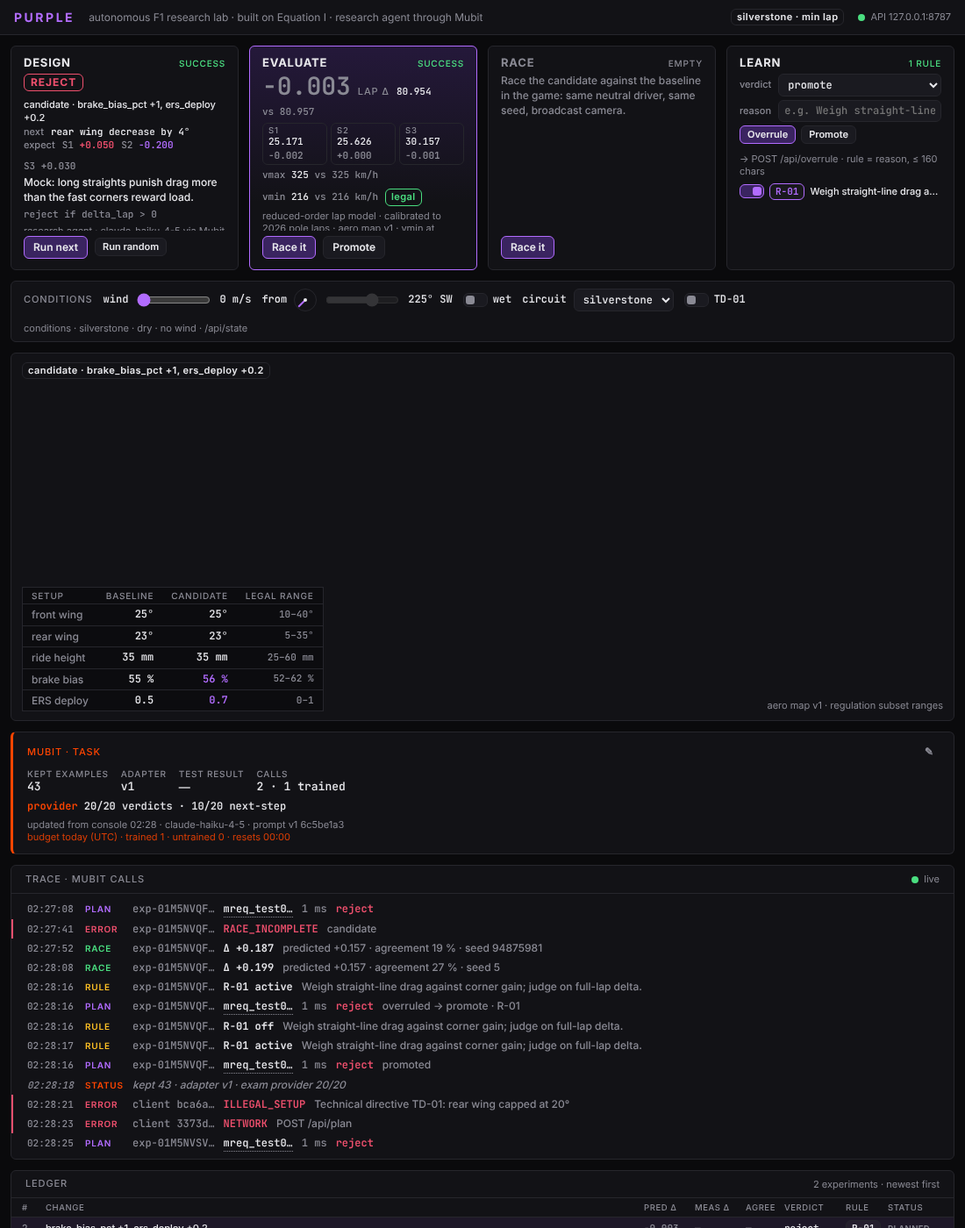
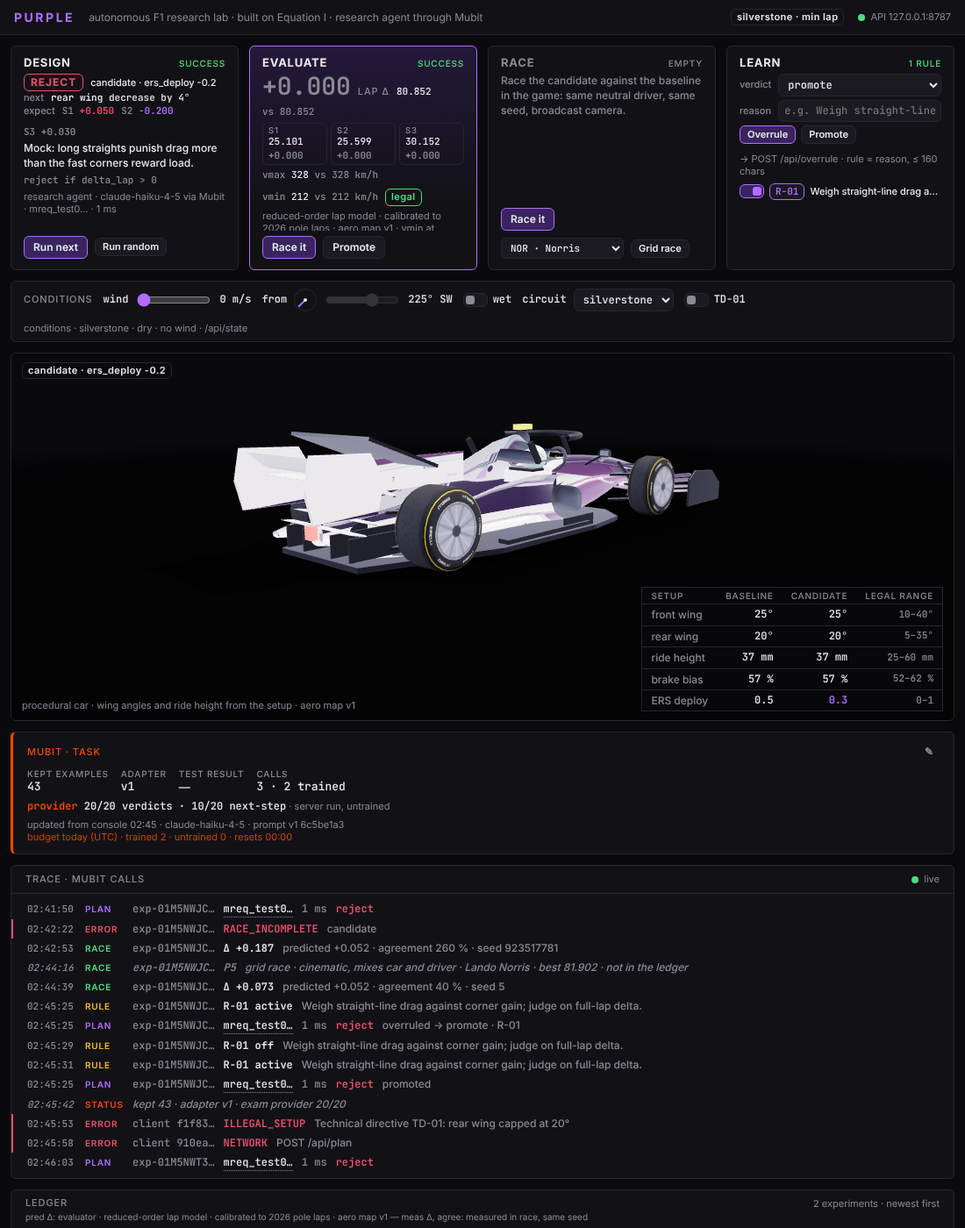
P3.T2/P3.T3 UI: polish round 2 — GAME review, integrator audit, grid-race UI; car3d scripts reverted (lazy-loaded)
lab/lab.js: keep the game frame after a result until Back to 3D view; still-air note for windy experiments (G-HON-01);
message handler checks ev.source and the racing experiment id (STALE_RESULT); purple:grid block + Grid race button with a
driver select from EI.SEASON (P3.T3 UI side, cinematic, not in the ledger); mubit_code on trace/error lines; ledger source
row; widget exam line from exam.ran_at. lab/index.html: favicon data URL, allow=autoplay, teams/liveries/carglb tags removed
(lab/car3d.js lazy-loads them). lab/lab.css: centred back button over the game, ledger source row.

Claude-Session: https://claude.ai/code/session_01LerQvr7T9YvRQxL76EErVH

diff --git a/lab/lab.js b/lab/lab.js
@@ -45,7 +45,7 @@
   // ---- state
   const S = {
     current: null, ledger: [], rules: [], status: null, state: null,
-    busy: {}, err: {}, racing: null, lastRacePayload: null, active: null, apiOk: null, ledgerTotal: 0,
+    busy: {}, err: {}, racing: null, showGame: false, grid: null, lastRacePayload: null, active: null, apiOk: null, ledgerTotal: 0,
     rendered: { evalId: null }, traceSeen: new Set(), lastStatusKey: null, car3dMounted: false, car3dSetupKey: null, illegalCandidate: null,
   };
 
@@ -88,7 +88,10 @@
     const p = $(".progress", c);
     if (o.state === "loading") { if (!p) c.appendChild(el("div", { class: "progress", "aria-hidden": "true" })); } else if (p) p.remove();
   }
-  const errBody = (e, extra) => [el("div", { class: "err", text: e.code + " · " + e.endpoint }), el("p", { text: e.message }), extra];
+  const errBody = (e, extra) => [el("div", { class: "err", text: e.code + " · " + e.endpoint + (e.extra && e.extra.mubit_code ? " · " + e.extra.mubit_code : "") }), el("p", { text: e.message }), extra];
+  const windy = x => !!(x && x.conditions && +x.conditions.wind_ms > 0);
+  // G-HON-01: the game has no wind model; a windy experiment races in still air while the evaluator's numbers include the wind
+  const windNote = x => (windy(x) ? el("div", { class: "row" }, el("span", { class: "badge amber", text: "still air" }), el("span", { class: "sans muted", text: "raced in still air (the game has no wind); evaluator numbers include the wind, " + x.conditions.wind_ms + " m/s from " + (x.conditions.wind_from_deg || 0) + "°" })) : null);
   const btn = (label, onclick, o) => el("button", Object.assign({ class: "btn" + (o && o.cls ? " " + o.cls : ""), type: "button", onclick, disabled: !!(o && o.disabled), title: o && o.title }, {}), label);
   const delta = (d, cls) => el("span", { class: "delta " + deltaClass(d) + (cls ? " " + cls : ""), text: fmtD(d) });
   const verdictPill = v => el("span", { class: "verdict " + v, text: v });
@@ -152,12 +155,21 @@
   function renderRace() {
     const x = S.current, e = S.err.race, m = x && x.measured;
     if (S.busy.raceResult) return card("race", { state: "loading", stateLabel: "posting result", body: [el("p", { text: "POST /api/race/result" })] });
-    if (e) return card("race", { state: "error", body: errBody(e), foot: [e.again ? btn("Race again", raceIt, { cls: "primary" }) : btn("Retry", e.retry, { cls: "primary" }), btn("Back to 3D view", cancelRace, { cls: "small" })] });
+    const back = S.showGame ? btn("Back to 3D view", cancelRace, { cls: "small" }) : null;
+    const canRace = !!(x && x.evaluation && isNum(x.evaluation.lap));
+    if (e) return card("race", { state: "error", body: errBody(e), foot: [e.again ? btn("Race again", raceIt, { cls: "primary" }) : btn("Retry", e.retry, { cls: "primary" }), back || btn("Dismiss", () => { delete S.err.race; renderAll(); }, { cls: "small" })] });
+    if (S.racing && S.racing.mode === "grid") return card("race", { state: "loading", stateLabel: "grid race", body: [
+      el("div", { class: "row" }, el("span", { class: "big num", id: "raceClock", text: fmtClock(Date.now() - S.racing.started) }), el("span", { class: "label", text: "elapsed" }), el("span", { class: "badge amber", text: "CINEMATIC · mixes car and driver" })),
+      el("p", { text: "The candidate car with " + (S.racing.driverName || S.racing.driver) + " on the 2026 grid · " + GRID_LAPS + " laps · seed " + S.racing.seed + ". Not a measurement; nothing is written to the ledger." }), windNote(x)], foot: [btn("Cancel", cancelRace, { cls: "small" })] });
     if (S.racing) return card("race", { state: "loading", stateLabel: "racing", body: [
-      el("div", { class: "row" }, el("span", { class: "big num", id: "raceClock", text: fmtClock(Date.now() - S.racing.started) }), el("span", { class: "label", text: "elapsed" }), el("span", { class: "muted sans", text: "a " + LAPS + "-lap race takes about 4½ minutes" })),
-      el("p", { text: "Waiting for result · baseline vs candidate · same neutral driver · " + LAPS + " laps · seed " + S.racing.seed + "." }),
+      el("div", { class: "row" }, el("span", { class: "big num", id: "raceClock", text: fmtClock(Date.now() - S.racing.started) }), el("span", { class: "label", text: "elapsed" }), el("span", { class: "muted sans", text: "a " + LAPS + "-lap race takes about 4½ minutes; no result after " + Math.round(RACE_TIMEOUT_MS / 60000) + " shows an error" })),
+      el("p", { text: "Waiting for result · baseline vs candidate · same neutral driver · " + LAPS + " laps · seed " + S.racing.seed + "." }), windNote(x),
       el("div", { class: "src", text: "the game posts purple:result when the chequered flag falls" })], foot: [btn("Cancel", cancelRace, { cls: "small" })] });
-    if (!m) return card("race", { state: "empty", body: [el("p", { text: "Race the candidate against the baseline in the game: same neutral driver, same seed, broadcast camera." })], foot: [btn("Race it", raceIt, { cls: "primary", disabled: !(x && x.evaluation && isNum(x.evaluation.lap)) })] });
+    const g = S.grid && x && S.grid.experiment_id === x.id ? S.grid : null;
+    const gridBlock = g ? el("div", { class: "grid-res" }, el("div", { class: "row" }, el("span", { class: "badge amber", text: "CINEMATIC · mixes car and driver" }),
+      el("span", {}, el("b", { text: g.position != null ? "P" + g.position : "DNF" }), el("span", { class: "muted", text: g.field ? " of " + g.field : "" })), el("span", { class: "num", text: g.best_lap != null ? fmtT(g.best_lap) : "—" }), el("span", { class: "muted sans", text: g.driver ? g.driver.name + " · " + (g.driver.team || "") : "" })),
+      el("div", { class: "src", text: (g.label || "cinematic — mixes car and driver") + " · " + (g.laps || GRID_LAPS) + " laps · seed " + g.seed + " · not in the ledger" })) : null;
+    if (!m) return card("race", { state: g ? "success" : "empty", stateLabel: g ? "grid raced" : "empty", body: [gridBlock, el("p", { text: "Race the candidate against the baseline in the game: same neutral driver, same seed, broadcast camera." }), windNote(x)], foot: [btn("Race it", raceIt, { cls: "primary", disabled: !canRace }), gridControls(x), back] });
     const body = [
       el("div", { class: "row" }, delta(m.measured_delta, "big"), el("span", { class: "label", text: "measured Δ" }), el("span", { class: "muted", text: "predicted " }), delta(m.predicted_delta),
         el("span", { class: "badge " + (isNum(m.agreement_pct) ? (m.agreement_pct <= 25 ? "green" : "amber") : ""), text: "agreement " + fmtPct(m.agreement_pct) })),
@@ -165,9 +177,29 @@
       kv([["baseline", "lap · vmax / vmin"]].map(([k, v]) => [k, el("span", { class: "muted sans", text: v })]).concat(["baseline", "candidate"].map(role => {
         const c = m[role] || {}; return [role, el("span", { title: role + ": best lap · top speed / minimum through the fast complex" }, el("span", { class: "num", text: fmtT(c.lap) }), el("span", { class: "muted", text: " · " + (isNum(c.vmax_kmh) ? Math.round(c.vmax_kmh) : "—") + " / " + (isNum(c.vmin_becketts_kmh) ? Math.round(c.vmin_becketts_kmh) : "—") + " km/h" }))];
       }))),
+      windNote(x),
       el("div", { class: "src", text: (m.label || "measured in race") + " · agreement = 100·|measured Δ − predicted Δ| / |predicted Δ|" }),
+      gridBlock,
     ];
-    card("race", { state: "success", body, foot: [btn("Race again", raceIt, { cls: "small" })] });
+    card("race", { state: "success", body, foot: [btn("Race again", raceIt, { cls: "small" }), gridControls(x), S.showGame && !S.racing ? null : back] });
+  }
+  // P3.T3 UI side (F-10): the candidate car with a real 2026 driver on the full grid; cinematic, never a measurement (G-HON-05)
+  const GRID_LAPS = 2;
+  function gridControls(x) {
+    if (!x || !x.evaluation || !isNum(x.evaluation.lap) || S.racing) return null;
+    const drivers = (EI.SEASON && Array.isArray(EI.SEASON.drivers) ? EI.SEASON.drivers : []).filter(d => !d.reserve);
+    const sel = drivers.length ? el("select", { "aria-label": "driver for the grid race", class: "small" }, drivers.map(d => el("option", { value: d.code, selected: d.code === (S.gridDriver || "VER"), title: d.name }, d.code + " · " + (d.last || d.name)))) : el("input", { type: "text", "aria-label": "driver code for the grid race", value: S.gridDriver || "VER", maxlength: "3", size: "4", class: "small" });
+    sel.addEventListener("change", ev => { S.gridDriver = ev.target.value; });
+    return el("span", { class: "row", title: "cinematic: the candidate car with a real 2026 driver profile on the 2026 grid, " + GRID_LAPS + " laps" }, sel, btn("Grid race", () => gridRace(sel.value), { cls: "small" }));
+  }
+  function gridRace(code) {
+    const x = S.current; if (!x || !x.evaluation || !isNum(x.evaluation.lap) || !EI.aero) return;
+    const c = x.conditions || {}, circuit = x.circuit || c.circuit || "silverstone"; code = String(code || "VER").toUpperCase(); S.gridDriver = code;
+    const d = EI.SEASON && EI.SEASON.drivers ? EI.SEASON.drivers.find(k => k.code === code) : null;
+    const q = new URLSearchParams({ lab: "1", mode: "grid", exp: x.id, driver: code, seed: String(x.seed), laps: String(GRID_LAPS), circuit, candidate: b64(x.candidate), mult_candidate: b64(EI.aero.toMultipliers(x.candidate, c)) });
+    S.racing = { id: x.id, seed: x.seed, started: Date.now(), mode: "grid", driver: code, driverName: d ? d.name : null }; S.showGame = true; delete S.err.race; S.active = "race"; clearBanner();
+    renderAll(); startRaceClock();
+    $("#game").src = "../index.html?" + q.toString();
   }
 
   // ---- LEARN: Promote / Overrule (native form) → pit-wall rule; rules list with toggles
@@ -194,12 +226,12 @@
 
   // ---- main area: 3D car (lab/car3d.js, CAR3D lane) or the game iframe while racing; setup table as the always-on numbers
   function renderMain() {
-    const x = S.current, racing = !!S.racing;
+    const x = S.current, racing = !!S.showGame;   // the game frame stays up after a result until "Back to 3D view"
     const game = $("#game"), car = $("#car3d"), empty = $("#mainEmpty");
     game.hidden = !racing; car.hidden = racing;
     if (!racing && game.getAttribute("src")) game.removeAttribute("src");
-    const corner = $("#mainCorner");
-    corner.replaceChildren(...(racing ? [] : [el("span", { class: "badge", text: x ? "candidate · " + (x.change || "no change") : "baseline" })]));
+    const corner = $("#mainCorner"); corner.classList.toggle("racing", racing);
+    corner.replaceChildren(...(racing ? (S.racing ? [] : [btn("Back to 3D view", cancelRace, { cls: "small" })]) : [el("span", { class: "badge", text: x ? "candidate · " + (x.change || "no change") : "baseline" })]));
     const setup = x ? x.candidate : (S.illegalCandidate || (S.state && S.state.baseline));
     if (EI.labCar3D && !racing) {
       try {
@@ -212,7 +244,7 @@
       }
       empty.hidden = S.car3dMounted && !S.car3dError;
     } else empty.hidden = racing;
-    $("#mainSrc").textContent = racing ? "Equation I · ?lab=1 broadcast mode" : S.car3dMounted ? "procedural car · wing angles and ride height from the setup · aero map v1" : "aero map v1 · regulation subset ranges";
+    $("#mainSrc").textContent = racing ? "" : S.car3dMounted ? "procedural car · wing angles and ride height from the setup · aero map v1" : "aero map v1 · regulation subset ranges";
     $("#setupBox").replaceChildren(racing ? el("span") : setupTable());   // while racing the game's HUD owns the frame
   }
   function setupTable() {
@@ -234,7 +266,7 @@
   // ---- MubitWidget: GET /api/status; edit form POSTs partial values (the console is the source, this is the copy)
   function renderWidget(editing) {
     const w = $("#widget"), s = S.status || {}, ex = s.exam || {}, total = ex.total || 20, b = s.budget;
-    const examLine = (who, v, p) => (isNum(v) || isNum(p) ? el("div", { class: "exam" }, el("b", { text: who }), " " + (isNum(v) ? v + "/" + total + " verdicts" : "—") + (isNum(p) ? " · " + p + "/" + total + " next-step" : "")) : null);
+    const examLine = (who, v, p, when) => (isNum(v) || isNum(p) ? el("div", { class: "exam" }, el("b", { text: who }), " " + (isNum(v) ? v + "/" + total + " verdicts" : "—") + (isNum(p) ? " · " + p + "/" + total + " next-step" : ""), when ? el("span", { class: "src", text: " · " + when }) : null) : null);
     const head = el("div", { class: "head" }, el("span", { class: "label", text: "Mubit · task" }), el("button", { class: "btn icon", type: "button", "aria-label": editing ? "cancel editing" : "edit status (values from the console)", title: "edit values copied from the console", onclick: () => renderWidget(!editing) }, editing ? "✕" : "✎"));
     if (editing) {
       const f = (name, label, value, type) => el("label", {}, label, el("input", { name, type: type || "text", value: value == null ? "" : value, step: type === "number" ? "1" : null }));
@@ -252,8 +284,8 @@
         el("div", { class: "fact" }, el("div", { class: "label", text: "adapter" }), el("div", { class: "v", text: s.adapter_version || "—" })),
         el("div", { class: "fact" }, el("div", { class: "label", text: "test result" }), el("div", { class: "v sans", text: s.test_result || "—" })),
         el("div", { class: "fact" }, el("div", { class: "label", text: "calls" }), el("div", { class: "v num", text: isNum(s.calls_total) ? s.calls_total + " · " + s.calls_trained + " trained" : "—" }))),
-      examLine("provider", ex.provider, ex.provider_param) || el("div", { class: "exam muted sans", text: "exam not run yet (20 held-out scenarios, truth from the evaluator)" }),
-      examLine("v1", ex.v1, ex.v1_param), examLine("v2", ex.v2, ex.v2_param),
+      examLine("provider", ex.provider, ex.provider_param, ex.ran_at ? "server run, untrained, " + hhmm(ex.ran_at) : "server run, untrained") || el("div", { class: "exam muted sans", text: "exam not run yet (20 held-out scenarios, truth from the evaluator)" }),
+      examLine("v1", ex.v1, ex.v1_param, "Try models, hand-scored"), examLine("v2", ex.v2, ex.v2_param, "Try models, hand-scored"),
       el("div", { class: "src upd" },
         el("span", { text: (s.last_console_read_at ? "updated from console " + hhmm(s.last_console_read_at) : s.updated_at ? "status written " + hhmm(s.updated_at) + " · console not read yet" : "not yet read from the console") + " · " + (s.model || "") + (s.prompt_version ? " · prompt v" + s.prompt_version : "") + (s.prompt_hash ? " " + String(s.prompt_hash).slice(0, 8) : "") }),
         b ? el("span", { class: "budget", title: "Mubit daily budget: calls today by UTC day; resets " + (b.resets_at ? hhmm(b.resets_at) + " local (" + (b.boundary || "00:00 UTC") + ")" : "00:00 UTC"), text: "budget today (UTC) · trained " + (b.trained_today_utc ?? "—") + " · untrained " + (b.untrained_today_utc ?? "—") + (b.resets_at ? " · resets " + hhmm(b.resets_at) : "") }) : null)].filter(Boolean));
@@ -274,6 +306,7 @@
   function renderLedger() {
     const wrap = $("#ledgerWrap"), L = S.ledger;
     $("#ledgerMeta").textContent = L.length ? S.ledgerTotal + " experiment" + (S.ledgerTotal === 1 ? "" : "s") + " · newest first" : "";
+    $("#ledgerSrc").textContent = L.length ? "pred Δ: evaluator · reduced-order lap model · calibrated to 2026 pole laps · aero map v1 — meas Δ, agree: measured in race, same seed" : "";
     if (!L.length) { wrap.replaceChildren(el("div", { class: "empty", text: "No experiments yet — run one" })); return; }
     const total = S.ledgerTotal || L.length;
     const rows = L.map((x, i) => {
@@ -313,7 +346,7 @@
   function copy(text) { (navigator.clipboard ? navigator.clipboard.writeText(text) : Promise.reject()).then(() => toast("copied " + text), () => toast(text)); }
   function traceExperiment(x, note) {
     return trace({ kind: "plan", key: "plan:" + x.id + ":" + x.status + (x.measured ? ":m" : ""), at: x.promoted_at || (x.overrule && x.overrule.at) || x.created_at, session: x.session_id, requestId: x.mubit_request_id, latencyMs: x.latency_ms,
-      verdict: x.plan ? x.plan.verdict : null, error: x.plan ? null : (x.error ? x.error.code : x.status), trained: x.trained, note: note || (x.status === "overruled" ? "overruled → " + x.overrule.verdict + " · " + x.overrule.rule_id : x.status === "promoted" ? "promoted" : null) });
+      verdict: x.plan ? x.plan.verdict : null, error: x.plan ? null : (x.error ? (x.error.mubit_code ? x.error.code + " · " + x.error.mubit_code : x.error.code) : x.status), trained: x.trained, note: note || (x.status === "overruled" ? "overruled → " + x.overrule.verdict + " · " + x.overrule.rule_id : x.status === "promoted" ? "promoted" : null) });
   }
 
   // ---- SSE: EventSource on /api/stream; every event refreshes the ledger
@@ -343,7 +376,7 @@
       if (S.lastStatusKey && key !== S.lastStatusKey) trace({ kind: "status", note: "kept " + (d.kept_examples ?? "—") + " · adapter " + (d.adapter_version || "—") + (d.exam && isNum(d.exam.provider) ? " · exam provider " + d.exam.provider + "/" + (d.exam.total || 20) : ""), trained: false });
       S.lastStatusKey = key;
     });
-    on("error", d => trace({ kind: "error", key: "err:" + d.experiment_id, session: d.experiment_id ? "exp-" + d.experiment_id : null, error: d.error && d.error.code, note: d.error && d.error.message }));
+    on("error", d => trace({ kind: "error", key: "err:" + d.experiment_id, session: d.experiment_id ? "exp-" + d.experiment_id : null, error: d.error && (d.error.mubit_code ? d.error.code + " · " + d.error.mubit_code : d.error.code), note: d.error && d.error.message }));
   }
   function scheduleLedger() { clearTimeout(ledgerTimer); ledgerTimer = setTimeout(refreshLedger, 150); }
   async function refreshLedger() {
@@ -378,11 +411,12 @@
     const c = x.conditions || {}, circuit = x.circuit || c.circuit || "silverstone";
     const q = new URLSearchParams({ lab: "1", exp: x.id, seed: String(x.seed), laps: String(LAPS), circuit, baseline: b64(x.baseline), candidate: b64(x.candidate),
       mult_baseline: b64(EI.aero.toMultipliers(x.baseline, c)), mult_candidate: b64(EI.aero.toMultipliers(x.candidate, c)) });
-    S.racing = { id: x.id, seed: x.seed, started: Date.now() }; delete S.err.race; S.active = "race"; clearBanner();
+    S.racing = { id: x.id, seed: x.seed, started: Date.now(), mode: "race" }; S.showGame = true; delete S.err.race; S.active = "race"; clearBanner();
     renderAll(); startRaceClock();
     $("#game").src = "../index.html?" + q.toString();
   }
-  function cancelRace() { stopRaceClock(); S.racing = null; delete S.err.race; S.busy.raceResult = false; renderAll(); }
+  // "Back to 3D view": the only thing that unloads the game. A finished race keeps its chequered-flag card on screen (GAME review, filming).
+  function cancelRace() { stopRaceClock(); S.racing = null; S.showGame = false; delete S.err.race; S.busy.raceResult = false; renderAll(); }
   function carsFrom(d) {   // tolerate { baseline: {…}, candidate: {…} } as well as the contract's cars[] (SERVER lane, P1.T3 entry)
     if (Array.isArray(d.cars)) return d.cars;
     if (d.baseline && d.candidate) return ["baseline", "candidate"].map(role => Object.assign({ role }, d[role]));
@@ -390,13 +424,22 @@
   }
   // a car that never completed a lap posts null lap/sectors/speeds; the server would 400 on the field, so say "race incomplete" instead of relaying
   const carIncomplete = k => !k || !isNum(k.lap) || !Array.isArray(k.sectors) || k.sectors.length !== 3 || !k.sectors.every(isNum) || !isNum(k.vmax_kmh) || !isNum(k.vmin_becketts_kmh);
-  window.addEventListener("message", ev => {   // ARCHITECTURE §10: same-origin game iframe only, and only the result message
+  window.addEventListener("message", ev => {   // ARCHITECTURE §10: same-origin game iframe only (origin AND source), and only the lab messages
     if (ev.origin !== location.origin) return;
-    const d = ev.data; if (!d || typeof d !== "object" || d.type !== "purple:result") return;
+    const frame = $("#game"); if (!frame || ev.source !== frame.contentWindow) return;
+    const d = ev.data; if (!d || typeof d !== "object" || (d.type !== "purple:result" && d.type !== "purple:grid")) return;
+    if (!S.racing) return;   // nothing in flight (cancelled, or an old frame): ignore
+    if (d.experiment_id && d.experiment_id !== S.racing.id) { trace({ kind: "error", session: "exp-" + d.experiment_id, error: "STALE_RESULT", note: "result for another experiment ignored; racing " + S.racing.id }); return; }
+    if (d.type === "purple:grid") {
+      stopRaceClock(); S.grid = Object.assign({ experiment_id: S.racing.id, seed: S.racing.seed }, d); S.racing = null; S.active = "race";
+      trace({ kind: "race", key: "grid:" + S.grid.experiment_id + ":" + Date.now(), session: "exp-" + S.grid.experiment_id, verdict: S.grid.position != null ? "P" + S.grid.position : "DNF", note: "grid race · cinematic, mixes car and driver · " + (S.grid.driver ? S.grid.driver.name : "") + (S.grid.best_lap != null ? " · best " + fmtT(S.grid.best_lap) : "") + " · not in the ledger", trained: false });
+      renderAll(); return;
+    }
+    if (S.racing.mode === "grid") return;
     const cars = carsFrom(d);
     const payload = { experiment_id: d.experiment_id || d.exp || (S.racing && S.racing.id), seed: Number.isInteger(d.seed) ? d.seed : Number.isInteger(+d.seed) ? +d.seed : (S.racing ? S.racing.seed : undefined), cars };
-    if (!Array.isArray(cars) || cars.length !== 2 || cars.some(carIncomplete)) {
-      const who = Array.isArray(cars) ? cars.filter(carIncomplete).map(k => (k && k.role) || "car").join(", ") : "both cars";
+    if (d.incomplete === true || !Array.isArray(cars) || cars.length !== 2 || cars.some(carIncomplete)) {
+      const who = Array.isArray(cars) && cars.some(carIncomplete) ? cars.filter(carIncomplete).map(k => (k && k.role) || "car").join(", ") : "the race (incomplete)";
       stopRaceClock(); S.racing = null; S.err.race = Object.assign(new ApiErr("RACE_INCOMPLETE", "purple:result (game iframe)", "race incomplete: no completed lap for " + who + "; nothing was posted"), { again: true });
       trace({ kind: "error", session: payload.experiment_id ? "exp-" + payload.experiment_id : null, error: "RACE_INCOMPLETE", note: who }); renderAll(); return;
     }
@@ -421,7 +464,7 @@
   const fmtClock = ms => { const t = Math.floor(ms / 1000); return String(Math.floor(t / 60)).padStart(2, "0") + ":" + String(t % 60).padStart(2, "0"); };
   async function postRaceResult(payload) {
     S.lastRacePayload = payload; S.busy.raceResult = true; delete S.err.race; renderAll();
-    try { const row = await api("POST", "/api/race/result", payload); S.current = row; S.racing = null; S.active = "race"; clearBanner(); }
+    try { const row = await api("POST", "/api/race/result", payload); S.current = row; S.racing = null; S.active = "race"; clearBanner(); }   // S.showGame stays: the chequered-flag card stays on screen until "Back to 3D view"
     catch (e) { e.retry = () => postRaceResult(payload); S.err.race = e; banner(e); }
     finally { S.busy.raceResult = false; renderAll(); scheduleLedger(); }
   }

diff --git a/lab/index.html b/lab/index.html
@@ -8,6 +8,7 @@
 <link rel="preconnect" href="https://fonts.googleapis.com">
 <link rel="preconnect" href="https://fonts.gstatic.com" crossorigin>
 <link rel="stylesheet" href="https://fonts.googleapis.com/css2?family=Inter:wght@400;500;600;700&family=JetBrains+Mono:wght@500;600&display=swap">
+<link rel="icon" href="data:,">
 <link rel="stylesheet" href="lab.css">
 </head>
 <body>
@@ -43,7 +44,7 @@
     <div class="panel main" id="main">
       <div id="car3d"></div>
       <div class="main-empty" id="mainEmpty"><div class="inner"><div class="h">3D car view</div>The candidate's wing angles and ride height render here from Equation I's procedural car (lab/car3d.js, CAR3D lane). The setup table below carries the numbers meanwhile.</div></div>
-      <iframe id="game" title="Equation I broadcast race" hidden></iframe>
+      <iframe id="game" title="Equation I broadcast race" allow="autoplay" hidden></iframe>
       <div class="corner" id="mainCorner"></div>
       <div class="overlay"><div id="setupBox"></div><div class="src" id="mainSrc"></div></div>
     </div>
@@ -56,7 +57,7 @@
       <div class="lines" id="traceLines" aria-live="polite" aria-relevant="additions"></div>
     </section>
     <section class="panel ledger" id="ledger" aria-label="experiment ledger">
-      <div class="head"><span class="label">Ledger</span><span class="src" id="ledgerMeta"></span></div>
+      <div class="head"><span class="label">Ledger</span><span class="src" id="ledgerMeta"></span><span class="src srcline" id="ledgerSrc"></span></div>
       <div class="wrap" id="ledgerWrap"></div>
     </section>
   </aside>
@@ -67,28 +68,8 @@
 <script src="../js/util.js"></script>
 <script src="../js/data/silverstone.js"></script>
 <script src="../js/data/monza.js"></script>
-<script src="../js/data/season2026.js"></script>
-<script src="../js/ads.js"></script>
-<script>// the game resolves its brand artwork relative to the page; from lab/ that is one level up (as lab/car3d-test.html does)
-  if (window.EI && EI.Ads) { EI.Ads.BRAND_DIR = '../assets/brand/'; EI.Ads.PARTNER_DIR = EI.Ads.BRAND_DIR + 'partners/'; }</script>
-<script src="../js/teams.js"></script>
-<script src="../js/liveries.js"></script>
-<script src="../js/liveries/mercedes.js"></script>
-<script src="../js/liveries/ferrari.js"></script>
-<script src="../js/liveries/mclaren.js"></script>
-<script src="../js/liveries/redbull.js"></script>
-<script src="../js/liveries/racingbulls.js"></script>
-<script src="../js/liveries/alpine.js"></script>
-<script src="../js/liveries/haas.js"></script>
-<script src="../js/liveries/audi.js"></script>
-<script src="../js/liveries/williams.js"></script>
-<script src="../js/liveries/astonmartin.js"></script>
-<script src="../js/liveries/cadillac.js"></script>
-<script src="../js/liveries/lumi.js"></script>
-<script src="../js/liveries/intake.js"></script>
 <script src="../js/track.js"></script>
 <script src="../js/carmodel.js"></script>
-<script src="../js/carglb.js"></script>
 <script src="../js/car.js"></script>
 <script src="../js/ai.js"></script>
 <script src="aero.js"></script>

diff --git a/lab/lab.css b/lab/lab.css
@@ -224,3 +224,9 @@ body.has-banner .lab { height: calc(100% - 40px - 41px); }
 .cond.busy { opacity: .7; }
 .cond input:disabled { opacity: .35; }
 .widget .budget { display: block; color: var(--mubit); opacity: .85; }
+.grid-res { border: 1px solid var(--line); border-radius: var(--r); padding: 4px 6px; margin: 4px 0; }
+.card select.small, .card input.small { background: #1a1a20; border: 1px solid var(--line); border-radius: var(--r); padding: 3px 6px; font-size: 11px; font-family: var(--mono); max-width: 150px; }
+.main .corner.racing { left: 50%; transform: translateX(-50%); top: 8px; }   /* the game's lap tower owns the top-left */
+.ledger .head { flex-wrap: wrap; row-gap: 2px; }
+.ledger .head .srcline { flex-basis: 100%; font-size: 10px; }
+.ledger .head .srcline:empty { display: none; }

diff --git a/docs/agents/lanes/UI.md b/docs/agents/lanes/UI.md
@@ -1,10 +1,21 @@
 # Lane UI
 
-Status: P2.T1 + P2.T6 merged (#16, #17); P3.T2 polish round 1 (SERVER review fixes, race clock + 6-min timeout, real 3D car wired, loop re-verified with web security ON) on branch `claude/ui-p3-polish`, PR open into `claude/amazing-planck-804i13`. Next: real-GPU race check on the demo laptop, DESIGN_SYSTEM §8 checklist pass. Owner: agent D (Claude, session `session_01LerQvr7T9YvRQxL76EErVH`). Blocker for a real browser: the API needs CORS for `http://127.0.0.1:8788` (proposal below, SERVER lane one-liner).
+Status: P2.T1 + P2.T6 merged (#16, #17); PR #29 (`claude/ui-p3-polish`) open into `claude/amazing-planck-804i13` with polish rounds 1 + 2 (SERVER + GAME reviews, integrator audit, P3.T3 grid-race UI). Next: real-GPU race check on the demo laptop, DESIGN_SYSTEM §8 checklist pass. Owner: agent D (Claude, session `session_01LerQvr7T9YvRQxL76EErVH`). Blocker for a real browser: the API needs CORS for `http://127.0.0.1:8788` (proposal below, SERVER lane one-liner).
 
 Owns: see `docs/agents/PARALLEL_PLAN.md` §1 (`lab/index.html`, `lab/lab.js`, `lab/lab.css`, this file). Update this file at the end of every session (dated section on top; keep older ones).
 
 ## Sessions
+
+### 2026-10-24 03:50 London — agent D (Claude) — P3.T2 polish round 2 + P3.T3 UI side (GAME review, integrator audit), same PR #29
+- Status: done, pushed to `claude/ui-p3-polish` (PR #29; synced with the integration branch at dc8c68c). `npm test` 75/75. No Mubit calls.
+- Files changed: `lab/lab.js`, `lab/lab.css`, `lab/index.html`, screenshots (`15-grid-racing.png`, `16-grid-result.png` new; others refreshed), this file.
+- CAR3D note applied: the teams / liveries / ads / season / carglb script tags I added in round 1 are **removed again**; the merged `lab/car3d.js` lazy-loads its own livery pipeline. The page still mounts the 3D car (verified: canvas present, 22 season drivers available after mount). `<link rel="icon" href="data:,">` added (no favicon 404).
+- GAME review (`GAME.md` "UI review"): (1) a successful `POST /api/race/result` no longer unloads the iframe: the chequered-flag card stays until "Back to 3D view" (a button centred at the top of the main area, clear of the game's lap tower and sector widget; also on the RACE card's error states). (2) G-HON-01: when the experiment's `wind_ms > 0` the RACE card (empty, racing, success) carries the amber "still air" note: "raced in still air (the game has no wind); evaluator numbers include the wind, n m/s from d°". (3) the `message` handler checks `ev.source === #game.contentWindow` and drops a result whose `experiment_id` is not the racing experiment (trace line `STALE_RESULT`); nothing in flight → ignored. (4) elapsed clock + 6-minute `NO_RESULT` from `S.racing.started` (round 1). (5) `allow="autoplay"` on the iframe. (6) **P3.T3 UI side**: driver `<select>` (from `EI.SEASON.drivers`, non-reserve, "NOR · Norris", falls back to a 3-letter input until the season data is loaded) + "Grid race" button on the RACE card → `../index.html?lab=1&mode=grid&exp=&driver=&seed=&laps=2&circuit=&candidate=&mult_candidate=`; the `purple:grid` message renders a "CINEMATIC · mixes car and driver" block (P n of field, best lap 3 dp, driver · team, label, "not in the ledger") on the RACE card and an italic (untrained-style) trace line; nothing is posted to the server (no route, by design).
+- Integrator audit: (a) done (clock + `RACE_INCOMPLETE` also on `incomplete: true`); (b) trace lines show `MUBIT_ERROR · <mubit_code>` when the row or SSE `error` event carries one, and the DESIGN error state prints `code · endpoint · mubit_code`; (c) the ledger head has a source row: "pred Δ: evaluator · reduced-order lap model · calibrated to 2026 pole laps · aero map v1 — meas Δ, agree: measured in race, same seed"; (d) widget footer: "updated from console HH:MM" only from `last_console_read_at`; the provider exam line says "server run, untrained, HH:MM" from `exam.ran_at`; v1/v2 lines say "Try models, hand-scored"; (e) = GAME (3).
+- Verify step run + output (web security ON, fresh data dir, mock planner, Chromium 1440×900): T-F06-AC1..3 pass; relay incomplete → `RACE_INCOMPLETE` (`04b`); relay complete → raced row, iframe still up, foot = Race again · driver select · Grid race (`05a`); stale id dropped; Grid race URL `…mode=grid&exp=…&driver=NOR&seed=…&laps=2&circuit=silverstone…` (`15-grid-racing.png`); synthetic `purple:grid` → "CINEMATIC · mixes car and driver · P5 of 22 · 81.902 · Lando Norris · mclaren" on the card (`16-grid-result.png`); fake-race, overrule, promote, widget (exam "server run, untrained", budget line), conditions, TD-01, stacked layout as before. Console: only the game frame's SwiftShader notices and the resource lines from the deliberate 422 / server-down tests.
+- Decisions proposed: D-U9: grid-race results live only on the card and in the trace (cinematic, G-HON-05); no ledger write, no route. D-U10: "Back to 3D view" is the only action that unloads the game frame.
+- Blockers / questions for Tanuj: still the one real-GPU 3-lap race on the laptop (round 1 note).
+- Next three actions: (1) laptop pass: real race finish, DESIGN_SYSTEM §8 checklist with real `mreq_` ids; (2) if GAME adds a progress message (lap n/3) the RACE card can show it in one line; (3) motion pass.
 
 ### 2026-10-24 03:35 London — agent D (Claude) — P3.T2 polish round 1: SERVER review fixes, race clock, real 3D car, re-verify with web security ON
 - Status: done, PR open into `claude/amazing-planck-804i13` (branch `claude/ui-p3-polish`, cut from df2733f). `npm test` green (no lab tests). No Mubit calls (`MUBIT_MOCK=1`).
